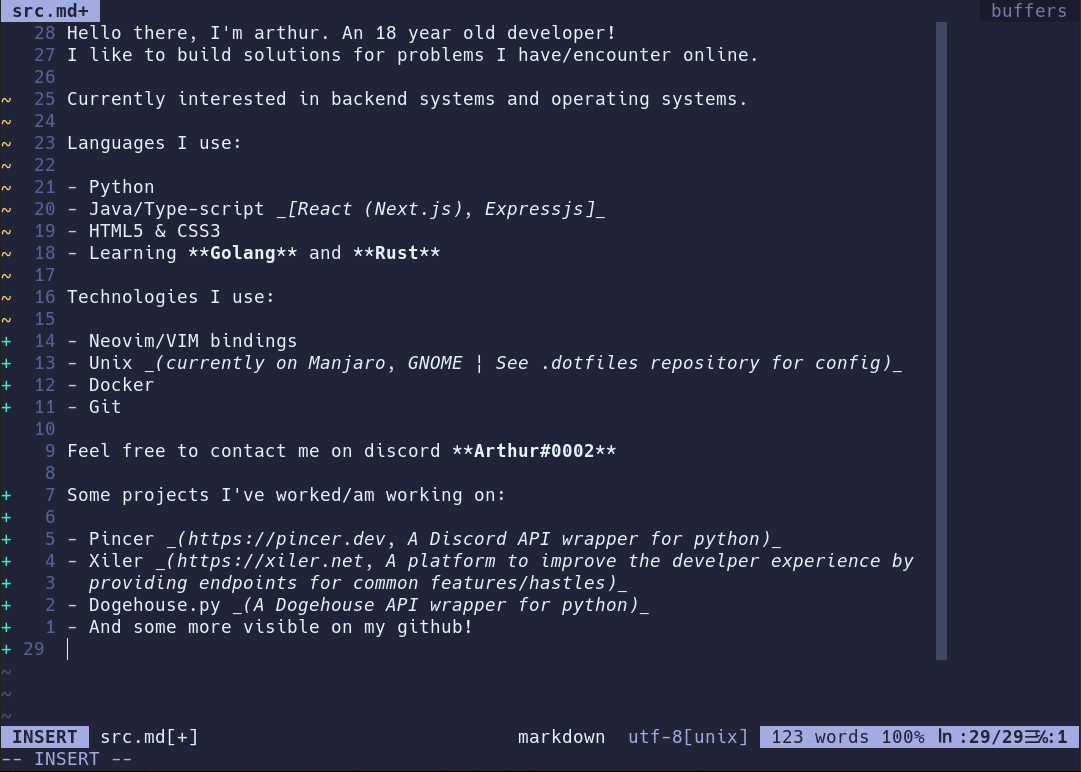
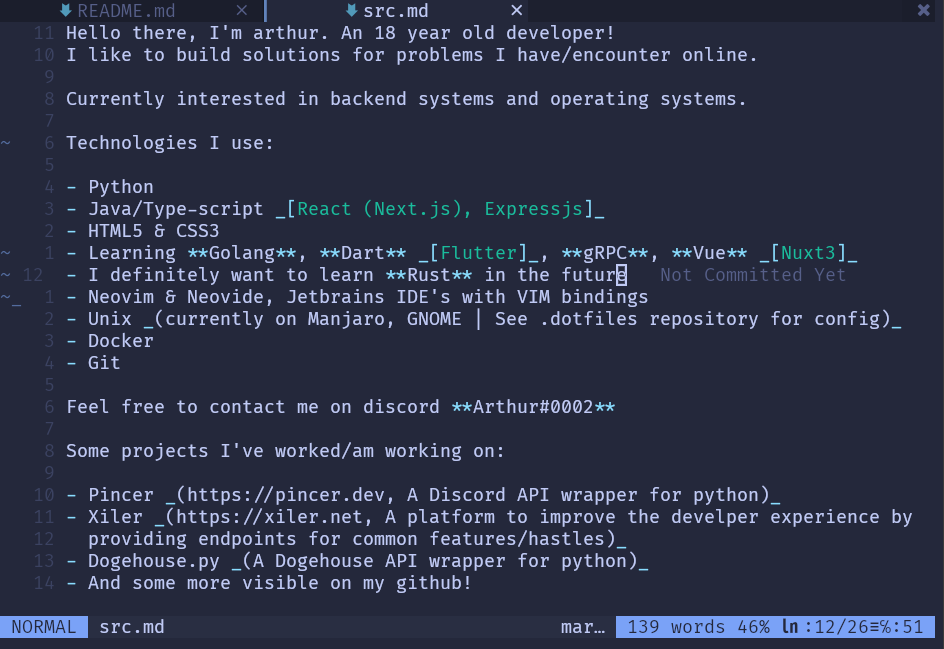
:sparkles: Small content changes

diff --git a/src.md b/src.md
@@ -3,16 +3,14 @@ I like to build solutions for problems I have/encounter online.
 
 Currently interested in backend systems and operating systems.
 
-Languages I use:
+Technologies I use:
 
 - Python
 - Java/Type-script _[React (Next.js), Expressjs]_
 - HTML5 & CSS3
-- Learning **Golang** and **Rust**
-
-Technologies I use:
-
-- Neovim/VIM bindings
+- Learning **Golang**, **Dart** _[Flutter]_, **gRPC**, **Vue** _[Nuxt3]_
+- I definitely want to learn **Rust** in the future
+- Neovim & Neovide, Jetbrains IDE's with VIM bindings
 - Unix _(currently on Manjaro, GNOME | See .dotfiles repository for config)_
 - Docker
 - Git
